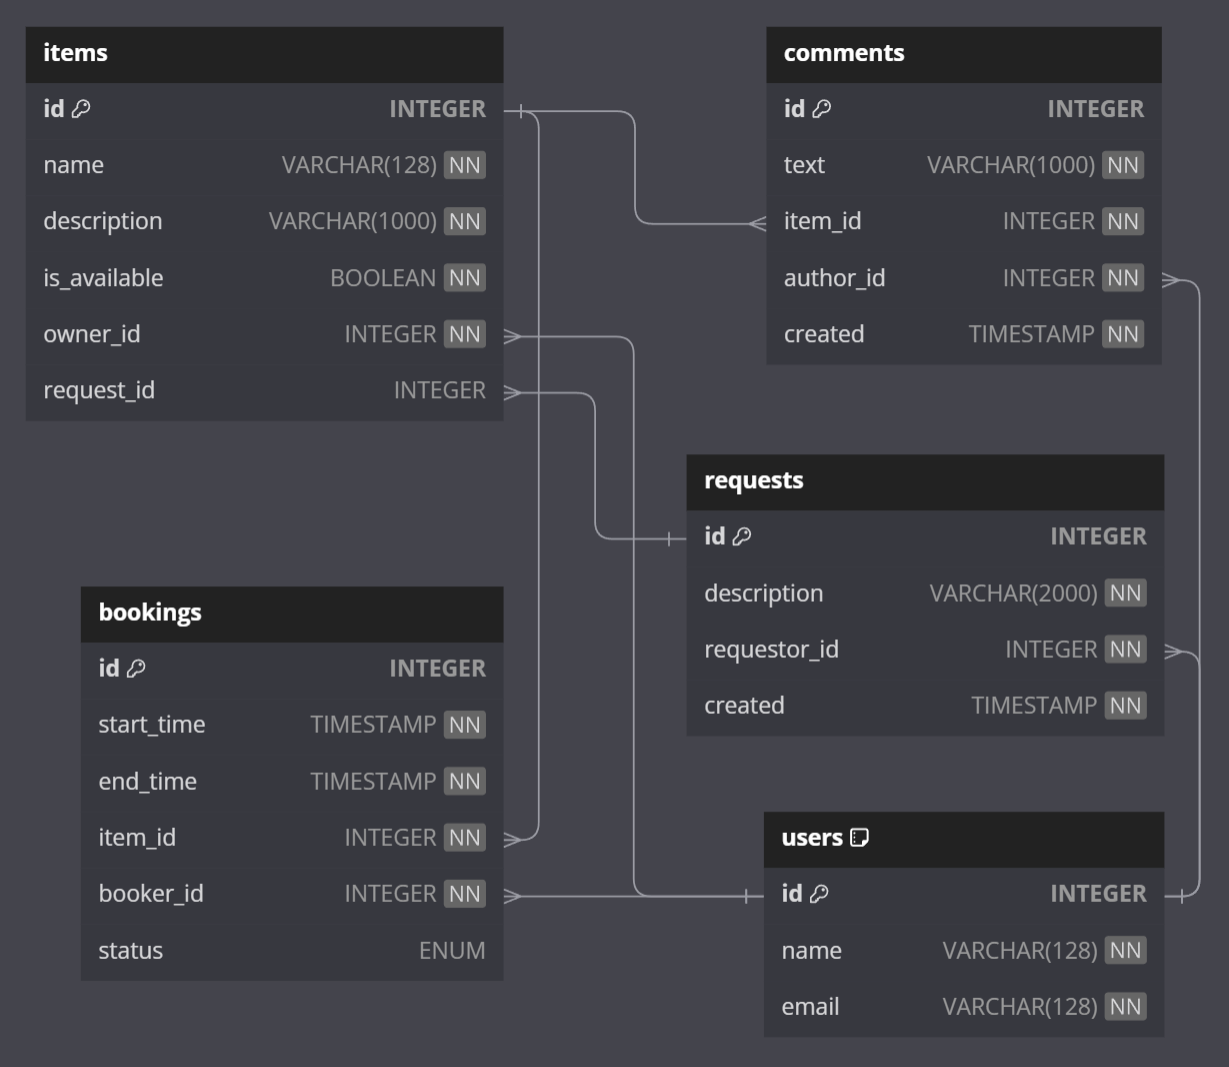
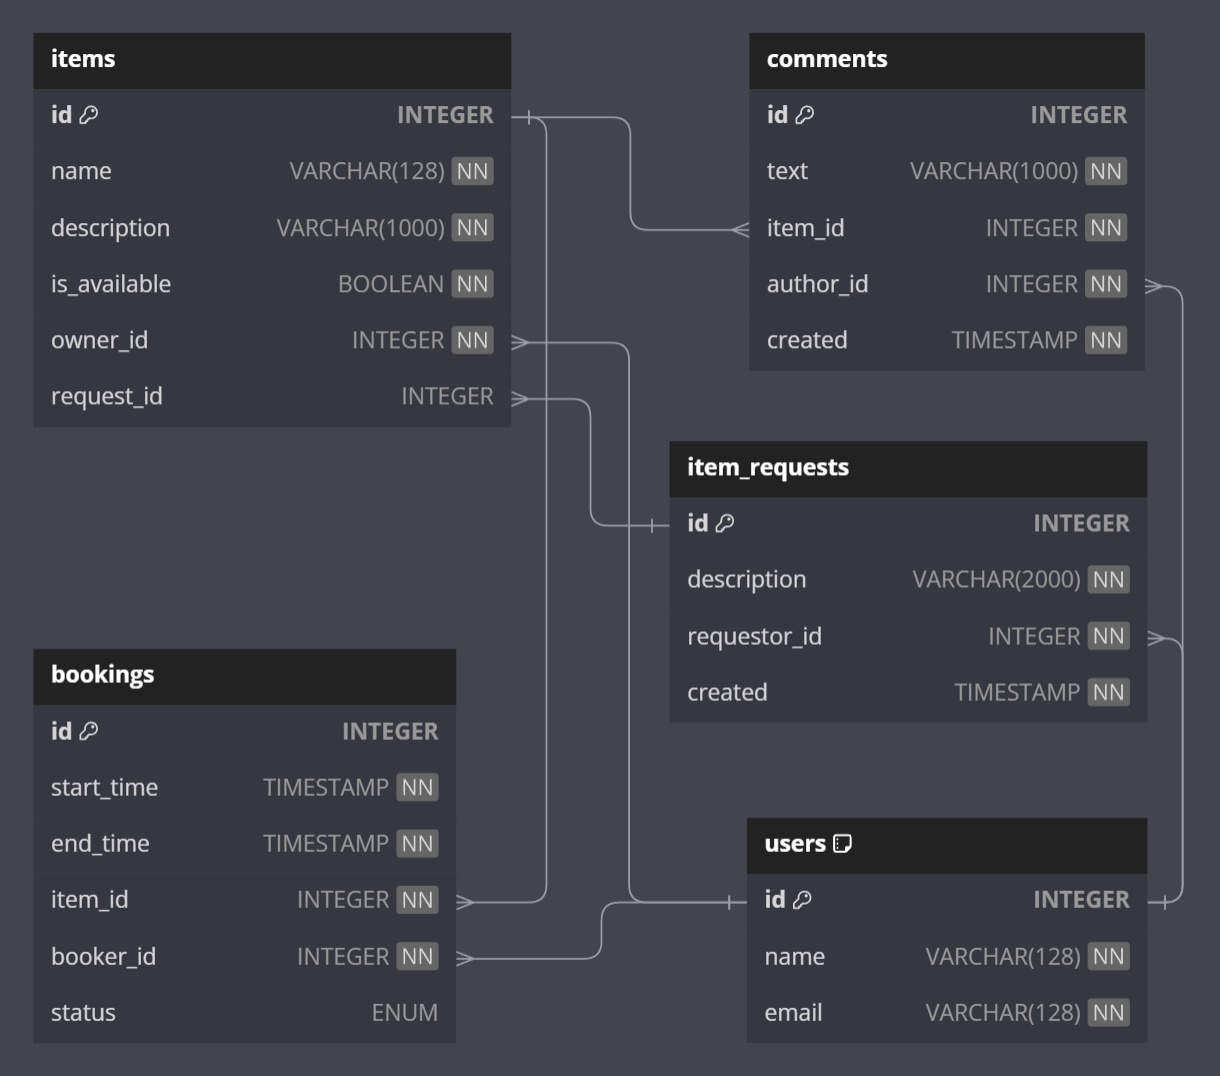
refactor: minor changes

diff --git a/src/main/java/ru/practicum/shareit/item/ItemController.java b/src/main/java/ru/practicum/shareit/item/ItemController.java
@@ -1,6 +1,7 @@
 package ru.practicum.shareit.item;
 
 import lombok.RequiredArgsConstructor;
+import org.springframework.validation.annotation.Validated;
 import org.springframework.web.bind.annotation.DeleteMapping;
 import org.springframework.web.bind.annotation.GetMapping;
 import org.springframework.web.bind.annotation.PatchMapping;
@@ -16,56 +17,61 @@ import ru.practicum.shareit.item.model.dto.ItemDto;
 import ru.practicum.shareit.item.service.ItemService;
 
 import javax.validation.Valid;
+import javax.validation.constraints.Positive;
+import javax.validation.constraints.PositiveOrZero;
 import java.util.List;
 
 @RestController
 @RequestMapping("/items")
 @RequiredArgsConstructor
+@Validated
 public class ItemController {
     private final ItemService itemService;
 
+    private static final String USER_ID_HEADER = "X-Sharer-User-Id";
+
     @GetMapping("/{itemId}")
-    public ItemDto getItemById(@RequestHeader("X-Sharer-User-Id") int userId, @PathVariable int itemId) {
+    public ItemDto getItemById(@RequestHeader(USER_ID_HEADER) int userId, @PathVariable int itemId) {
         return itemService.getItemById(userId, itemId);
     }
 
     @GetMapping
     public List<ItemDto> getItemsByUserId(
-            @RequestHeader("X-Sharer-User-Id") int userId,
-            @RequestParam(defaultValue = "0") int from,
-            @RequestParam(defaultValue = "10") int size
+            @RequestHeader(USER_ID_HEADER) int userId,
+            @RequestParam(defaultValue = "0") @PositiveOrZero int from,
+            @RequestParam(defaultValue = "10") @Positive int size
     ) {
         return itemService.getItemsByUserId(userId, from, size);
     }
 
     @PostMapping
-    public ItemDto addItem(@RequestHeader("X-Sharer-User-Id") int userId, @RequestBody @Valid ItemDto itemDto) {
+    public ItemDto addItem(@RequestHeader(USER_ID_HEADER) int userId, @RequestBody @Valid ItemDto itemDto) {
         return itemService.addItem(userId, itemDto);
     }
 
     @PatchMapping("/{itemId}")
-    public ItemDto updateItem(@RequestHeader("X-Sharer-User-Id") int userId,
+    public ItemDto updateItem(@RequestHeader(USER_ID_HEADER) int userId,
                            @PathVariable int itemId, @RequestBody ItemDto itemDto) {
         itemDto.setId(itemId);
         return itemService.updateItem(userId, itemDto);
     }
 
     @DeleteMapping("/{itemId}")
-    public void deleteItem(@RequestHeader("X-Sharer-User-Id") int userId, @PathVariable int itemId) {
+    public void deleteItem(@RequestHeader(USER_ID_HEADER) int userId, @PathVariable int itemId) {
         itemService.deleteItem(userId, itemId);
     }
 
     @GetMapping("/search")
     public List<ItemDto> findItems(
             @RequestParam String text,
-            @RequestParam(defaultValue = "0") int from,
-            @RequestParam(defaultValue = "10") int size
+            @RequestParam(defaultValue = "0") @PositiveOrZero int from,
+            @RequestParam(defaultValue = "10") @Positive int size
     ) {
         return itemService.findItems(text, from, size);
     }
 
     @PostMapping("/{itemId}/comment")
-    public CommentDto addComment(@RequestHeader("X-Sharer-User-Id") int userId,
+    public CommentDto addComment(@RequestHeader(USER_ID_HEADER) int userId,
                                  @PathVariable int itemId,
                                  @RequestBody @Valid CommentDto commentDto) {
         return itemService.addComment(userId, itemId, commentDto);

diff --git a/src/main/java/ru/practicum/shareit/booking/BookingController.java b/src/main/java/ru/practicum/shareit/booking/BookingController.java
@@ -1,6 +1,7 @@
 package ru.practicum.shareit.booking;
 
 import lombok.RequiredArgsConstructor;
+import org.springframework.validation.annotation.Validated;
 import org.springframework.web.bind.annotation.GetMapping;
 import org.springframework.web.bind.annotation.PatchMapping;
 import org.springframework.web.bind.annotation.PathVariable;
@@ -16,17 +17,22 @@ import ru.practicum.shareit.booking.model.BookingStatus;
 import ru.practicum.shareit.booking.service.BookingService;
 
 import javax.validation.Valid;
+import javax.validation.constraints.Positive;
+import javax.validation.constraints.PositiveOrZero;
 import java.util.List;
 
 @RestController
 @RequestMapping("/bookings")
 @RequiredArgsConstructor
+@Validated
 public class BookingController {
     private final BookingService bookingService;
 
+    private static final String USER_ID_HEADER = "X-Sharer-User-Id";
+
     @PostMapping
     public BookingDtoOutgoing addBooking(
-            @RequestHeader("X-Sharer-User-Id") int userId,
+            @RequestHeader(USER_ID_HEADER) int userId,
             @Valid @RequestBody BookingDtoDefault bookingDtoDefault
     ) {
         bookingDtoDefault.setBookerId(userId);
@@ -36,7 +42,7 @@ public class BookingController {
 
     @PatchMapping("/{bookingId}")
     public BookingDtoOutgoing approveBooking(
-            @RequestHeader("X-Sharer-User-Id") int userId,
+            @RequestHeader(USER_ID_HEADER) int userId,
             @PathVariable int bookingId,
             @RequestParam boolean approved
     ) {
@@ -44,26 +50,26 @@ public class BookingController {
     }
 
     @GetMapping("/{bookingId}")
-    public BookingDtoOutgoing getById(@RequestHeader("X-Sharer-User-Id") int userId, @PathVariable int bookingId) {
+    public BookingDtoOutgoing getById(@RequestHeader(USER_ID_HEADER) int userId, @PathVariable int bookingId) {
         return bookingService.getById(userId, bookingId);
     }
 
     @GetMapping
     public List<BookingDtoOutgoing> getUserBookings(
-            @RequestHeader("X-Sharer-User-Id") int userId,
+            @RequestHeader(USER_ID_HEADER) int userId,
             @RequestParam(defaultValue = "ALL") String state,
-            @RequestParam(defaultValue = "0") int from,
-            @RequestParam(defaultValue = "10") int size
+            @RequestParam(defaultValue = "0") @PositiveOrZero Integer from,
+            @RequestParam(defaultValue = "10") @Positive Integer size
     ) {
         return bookingService.getUserBookings(userId, state, from, size);
     }
 
     @GetMapping("/owner")
     public List<BookingDtoOutgoing> getOwnerBookings(
-            @RequestHeader("X-Sharer-User-Id") int userId,
+            @RequestHeader(USER_ID_HEADER) int userId,
             @RequestParam(defaultValue = "ALL") String state,
-            @RequestParam(defaultValue = "0") int from,
-            @RequestParam(defaultValue = "10") int size
+            @RequestParam(defaultValue = "0") @PositiveOrZero Integer from,
+            @RequestParam(defaultValue = "10") @Positive Integer size
     ) {
         return bookingService.getOwnerBookings(userId, state, from, size);
     }

diff --git a/src/main/java/ru/practicum/shareit/itemrequest/ItemRequestController.java b/src/main/java/ru/practicum/shareit/itemrequest/ItemRequestController.java
@@ -1,6 +1,7 @@
-package ru.practicum.shareit.request;
+package ru.practicum.shareit.itemrequest;
 
 import lombok.RequiredArgsConstructor;
+import org.springframework.validation.annotation.Validated;
 import org.springframework.web.bind.annotation.GetMapping;
 import org.springframework.web.bind.annotation.PathVariable;
 import org.springframework.web.bind.annotation.PostMapping;
@@ -9,43 +10,48 @@ import org.springframework.web.bind.annotation.RequestHeader;
 import org.springframework.web.bind.annotation.RequestMapping;
 import org.springframework.web.bind.annotation.RequestParam;
 import org.springframework.web.bind.annotation.RestController;
-import ru.practicum.shareit.request.model.ItemRequestDto;
-import ru.practicum.shareit.request.service.ItemRequestService;
+import ru.practicum.shareit.itemrequest.model.ItemRequestDto;
+import ru.practicum.shareit.itemrequest.service.ItemRequestService;
 
 import javax.validation.Valid;
+import javax.validation.constraints.Positive;
+import javax.validation.constraints.PositiveOrZero;
 import java.util.List;
 
 @RestController
 @RequestMapping(path = "/requests")
 @RequiredArgsConstructor
+@Validated
 public class ItemRequestController {
     private final ItemRequestService itemRequestService;
 
+    private static final String USER_ID_HEADER = "X-Sharer-User-Id";
+
     @PostMapping
     public ItemRequestDto addItemRequest(
-            @RequestHeader("X-Sharer-User-Id") int userId,
+            @RequestHeader(USER_ID_HEADER) int userId,
             @Valid @RequestBody ItemRequestDto itemRequestDto
     ) {
         return itemRequestService.addItemRequest(userId, itemRequestDto);
     }
 
     @GetMapping
-    public List<ItemRequestDto> getItemRequestsByUserId(@RequestHeader("X-Sharer-User-Id") int userId) {
+    public List<ItemRequestDto> getItemRequestsByUserId(@RequestHeader(USER_ID_HEADER) int userId) {
         return itemRequestService.getItemRequestsByUserId(userId);
     }
 
     @GetMapping(path = "/all")
     public List<ItemRequestDto> getAllItemRequests(
-            @RequestHeader("X-Sharer-User-Id") int userId,
-            @RequestParam(defaultValue = "0") int from,
-            @RequestParam(defaultValue = "10") int size
+            @RequestHeader(USER_ID_HEADER) int userId,
+            @RequestParam(defaultValue = "0") @PositiveOrZero int from,
+            @RequestParam(defaultValue = "10") @Positive int size
     ) {
         return itemRequestService.getAllItemRequests(userId, from, size);
     }
 
     @GetMapping("/{requestId}")
     public ItemRequestDto getItemRequestById(
-            @RequestHeader("X-Sharer-User-Id") int userId,
+            @RequestHeader(USER_ID_HEADER) int userId,
             @PathVariable int requestId
     ) {
         return itemRequestService.getItemRequestById(userId, requestId);

diff --git a/src/main/java/ru/practicum/shareit/itemrequest/service/ItemRequestServiceImpl.java b/src/main/java/ru/practicum/shareit/itemrequest/service/ItemRequestServiceImpl.java
@@ -1,4 +1,4 @@
-package ru.practicum.shareit.request.service;
+package ru.practicum.shareit.itemrequest.service;
 
 import lombok.RequiredArgsConstructor;
 import lombok.extern.slf4j.Slf4j;
@@ -8,10 +8,10 @@ import org.springframework.transaction.annotation.Transactional;
 import ru.practicum.shareit.exception.ItemRequestNotFoundException;
 import ru.practicum.shareit.exception.UserNotFoundException;
 import ru.practicum.shareit.item.storage.ItemStorage;
-import ru.practicum.shareit.request.model.ItemRequest;
-import ru.practicum.shareit.request.model.ItemRequestDto;
-import ru.practicum.shareit.request.model.ItemRequestMapper;
-import ru.practicum.shareit.request.storage.ItemRequestStorage;
+import ru.practicum.shareit.itemrequest.model.ItemRequest;
+import ru.practicum.shareit.itemrequest.model.ItemRequestDto;
+import ru.practicum.shareit.itemrequest.model.ItemRequestMapper;
+import ru.practicum.shareit.itemrequest.storage.ItemRequestStorage;
 import ru.practicum.shareit.user.model.User;
 import ru.practicum.shareit.user.storage.UserStorage;
 
@@ -19,12 +19,13 @@ import java.util.List;
 import java.util.Optional;
 import java.util.stream.Collectors;
 
-import static ru.practicum.shareit.request.model.ItemRequestMapper.itemRequestFromDto;
-import static ru.practicum.shareit.request.model.ItemRequestMapper.itemRequestToDto;
+import static ru.practicum.shareit.itemrequest.model.ItemRequestMapper.itemRequestFromDto;
+import static ru.practicum.shareit.itemrequest.model.ItemRequestMapper.itemRequestToDto;
 
 @RequiredArgsConstructor
 @Service
 @Slf4j
+@Transactional
 public class ItemRequestServiceImpl implements ItemRequestService {
     private final ItemRequestStorage itemRequestStorage;
     private final UserStorage userStorage;
@@ -56,8 +57,6 @@ public class ItemRequestServiceImpl implements ItemRequestService {
     public List<ItemRequestDto> getAllItemRequests(int userId, int from, int size) {
         if (!userStorage.existsById(userId))
             throw new UserNotFoundException("Пользователь с id=" + userId + " не найден");
-        if (size < 1) throw new IllegalArgumentException("Количество элементов для отображения не может быть меньше 1");
-        if (from < 0) throw new IllegalArgumentException("Индекс первого элемента не может быть меньше 0");
         int page = from / size;
         log.info("Пользователь с id={} запросил запросы других пользователей", userId);
         return itemRequestStorage.findByRequestorIdNotOrderByCreatedDesc(userId, PageRequest.of(page, size)).stream()

diff --git a/src/test/java/ru/practicum/shareit/unit/ItemRequestServiceTest.java b/src/test/java/ru/practicum/shareit/unit/ItemRequestServiceTest.java
@@ -12,10 +12,10 @@ import org.springframework.data.domain.Pageable;
 import ru.practicum.shareit.exception.ItemRequestNotFoundException;
 import ru.practicum.shareit.exception.UserNotFoundException;
 import ru.practicum.shareit.item.storage.ItemStorage;
-import ru.practicum.shareit.request.model.ItemRequest;
-import ru.practicum.shareit.request.model.ItemRequestDto;
-import ru.practicum.shareit.request.service.ItemRequestServiceImpl;
-import ru.practicum.shareit.request.storage.ItemRequestStorage;
+import ru.practicum.shareit.itemrequest.model.ItemRequest;
+import ru.practicum.shareit.itemrequest.model.ItemRequestDto;
+import ru.practicum.shareit.itemrequest.service.ItemRequestServiceImpl;
+import ru.practicum.shareit.itemrequest.storage.ItemRequestStorage;
 import ru.practicum.shareit.user.model.User;
 import ru.practicum.shareit.user.storage.UserStorage;
 
@@ -28,7 +28,7 @@ import static org.hamcrest.Matchers.equalTo;
 import static org.mockito.AdditionalAnswers.returnsFirstArg;
 import static org.mockito.ArgumentMatchers.any;
 import static org.mockito.ArgumentMatchers.anyInt;
-import static ru.practicum.shareit.request.model.ItemRequestMapper.itemRequestFromDto;
+import static ru.practicum.shareit.itemrequest.model.ItemRequestMapper.itemRequestFromDto;
 
 @ExtendWith(MockitoExtension.class)
 public class ItemRequestServiceTest {

diff --git a/src/main/java/ru/practicum/shareit/item/service/ItemServiceImpl.java b/src/main/java/ru/practicum/shareit/item/service/ItemServiceImpl.java
@@ -20,8 +20,8 @@ import ru.practicum.shareit.item.model.Item;
 import ru.practicum.shareit.item.model.dto.ItemDto;
 import ru.practicum.shareit.item.storage.CommentStorage;
 import ru.practicum.shareit.item.storage.ItemStorage;
-import ru.practicum.shareit.request.model.ItemRequest;
-import ru.practicum.shareit.request.storage.ItemRequestStorage;
+import ru.practicum.shareit.itemrequest.model.ItemRequest;
+import ru.practicum.shareit.itemrequest.storage.ItemRequestStorage;
 import ru.practicum.shareit.user.model.User;
 import ru.practicum.shareit.user.storage.UserStorage;
 
@@ -190,8 +190,6 @@ public class ItemServiceImpl implements ItemService {
     }
 
     private Pageable getPageable(int from, int size) {
-        if (size < 1) throw new IllegalArgumentException("Количество элементов для отображения не может быть меньше 1");
-        if (from < 0) throw new IllegalArgumentException("Индекс первого элемента не может быть меньше 0");
         int page = from / size;
         return PageRequest.of(page, size);
     }

diff --git a/src/main/java/ru/practicum/shareit/exception/ErrorHandler.java b/src/main/java/ru/practicum/shareit/exception/ErrorHandler.java
@@ -8,6 +8,7 @@ import org.springframework.web.bind.annotation.ExceptionHandler;
 import org.springframework.web.bind.annotation.ResponseStatus;
 import org.springframework.web.bind.annotation.RestControllerAdvice;
 
+import javax.validation.ConstraintViolationException;
 import java.util.Objects;
 
 @RestControllerAdvice
@@ -22,7 +23,7 @@ public class ErrorHandler {
     }
 
     @ExceptionHandler({ItemUnavailableException.class, BookingEndTimeException.class,
-            BookingStateException.class, BookingStatusException.class, IllegalArgumentException.class})
+            BookingStateException.class, BookingStatusException.class, ConstraintViolationException.class})
     @ResponseStatus(HttpStatus.BAD_REQUEST)
     public ErrorResponse handleBadRequest(RuntimeException e) {
         log.error(e.getMessage());

diff --git a/src/test/java/ru/practicum/shareit/api/ItemRequestControllerTest.java b/src/test/java/ru/practicum/shareit/api/ItemRequestControllerTest.java
@@ -9,9 +9,9 @@ import org.springframework.boot.test.autoconfigure.web.servlet.WebMvcTest;
 import org.springframework.boot.test.mock.mockito.MockBean;
 import org.springframework.http.MediaType;
 import org.springframework.test.web.servlet.MockMvc;
-import ru.practicum.shareit.request.ItemRequestController;
-import ru.practicum.shareit.request.model.ItemRequestDto;
-import ru.practicum.shareit.request.service.ItemRequestService;
+import ru.practicum.shareit.itemrequest.ItemRequestController;
+import ru.practicum.shareit.itemrequest.model.ItemRequestDto;
+import ru.practicum.shareit.itemrequest.service.ItemRequestService;
 
 import java.nio.charset.StandardCharsets;
 import java.time.LocalDateTime;

diff --git a/src/test/java/ru/practicum/shareit/integration/GetItemRequestsByUserIdTest.java b/src/test/java/ru/practicum/shareit/integration/GetItemRequestsByUserIdTest.java
@@ -7,8 +7,8 @@ import org.springframework.beans.factory.annotation.Autowired;
 import org.springframework.boot.test.context.SpringBootTest;
 import org.springframework.transaction.annotation.Transactional;
 import ru.practicum.shareit.exception.UserNotFoundException;
-import ru.practicum.shareit.request.model.ItemRequestDto;
-import ru.practicum.shareit.request.service.ItemRequestService;
+import ru.practicum.shareit.itemrequest.model.ItemRequestDto;
+import ru.practicum.shareit.itemrequest.service.ItemRequestService;
 import ru.practicum.shareit.user.model.User;
 import ru.practicum.shareit.user.model.UserDto;
 import ru.practicum.shareit.user.service.UserService;

diff --git a/src/test/java/ru/practicum/shareit/unit/ItemServiceTest.java b/src/test/java/ru/practicum/shareit/unit/ItemServiceTest.java
@@ -24,8 +24,8 @@ import ru.practicum.shareit.item.model.dto.ItemDto;
 import ru.practicum.shareit.item.service.ItemServiceImpl;
 import ru.practicum.shareit.item.storage.CommentStorage;
 import ru.practicum.shareit.item.storage.ItemStorage;
-import ru.practicum.shareit.request.model.ItemRequest;
-import ru.practicum.shareit.request.storage.ItemRequestStorage;
+import ru.practicum.shareit.itemrequest.model.ItemRequest;
+import ru.practicum.shareit.itemrequest.storage.ItemRequestStorage;
 import ru.practicum.shareit.user.model.User;
 import ru.practicum.shareit.user.storage.UserStorage;
 

diff --git a/src/main/java/ru/practicum/shareit/booking/service/BookingServiceImpl.java b/src/main/java/ru/practicum/shareit/booking/service/BookingServiceImpl.java
@@ -221,8 +221,6 @@ public class BookingServiceImpl implements BookingService {
     }
 
     private Pageable getPageable(int from, int size) {
-        if (size < 1) throw new IllegalArgumentException("Количество элементов для отображения не может быть меньше 1");
-        if (from < 0) throw new IllegalArgumentException("Индекс первого элемента не может быть меньше 0");
         int page = from / size;
         return PageRequest.of(page, size);
     }

diff --git a/src/main/java/ru/practicum/shareit/item/model/ItemMapper.java b/src/main/java/ru/practicum/shareit/item/model/ItemMapper.java
@@ -3,7 +3,7 @@ package ru.practicum.shareit.item.model;
 import ru.practicum.shareit.booking.model.Booking;
 import ru.practicum.shareit.item.model.dto.CommentDto;
 import ru.practicum.shareit.item.model.dto.ItemDto;
-import ru.practicum.shareit.request.model.ItemRequest;
+import ru.practicum.shareit.itemrequest.model.ItemRequest;
 import ru.practicum.shareit.user.model.User;
 
 import java.util.List;
